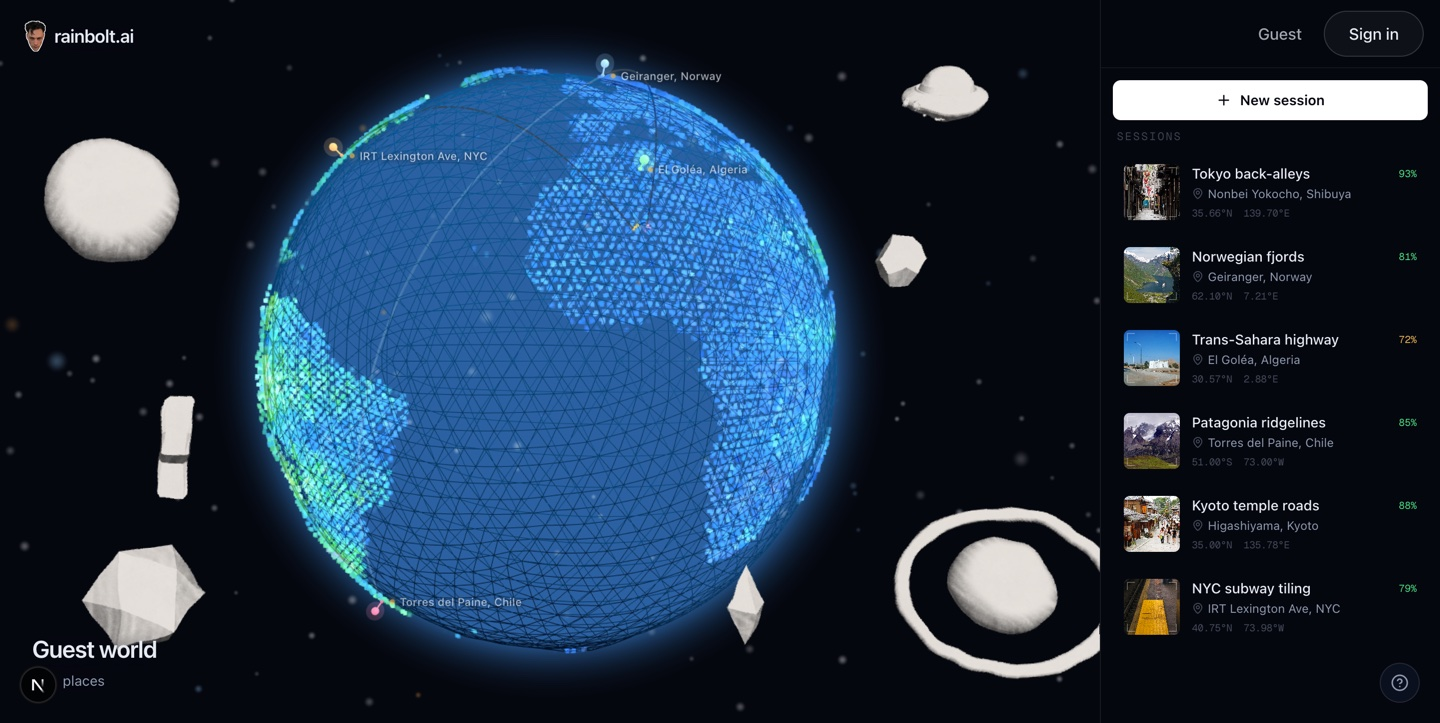
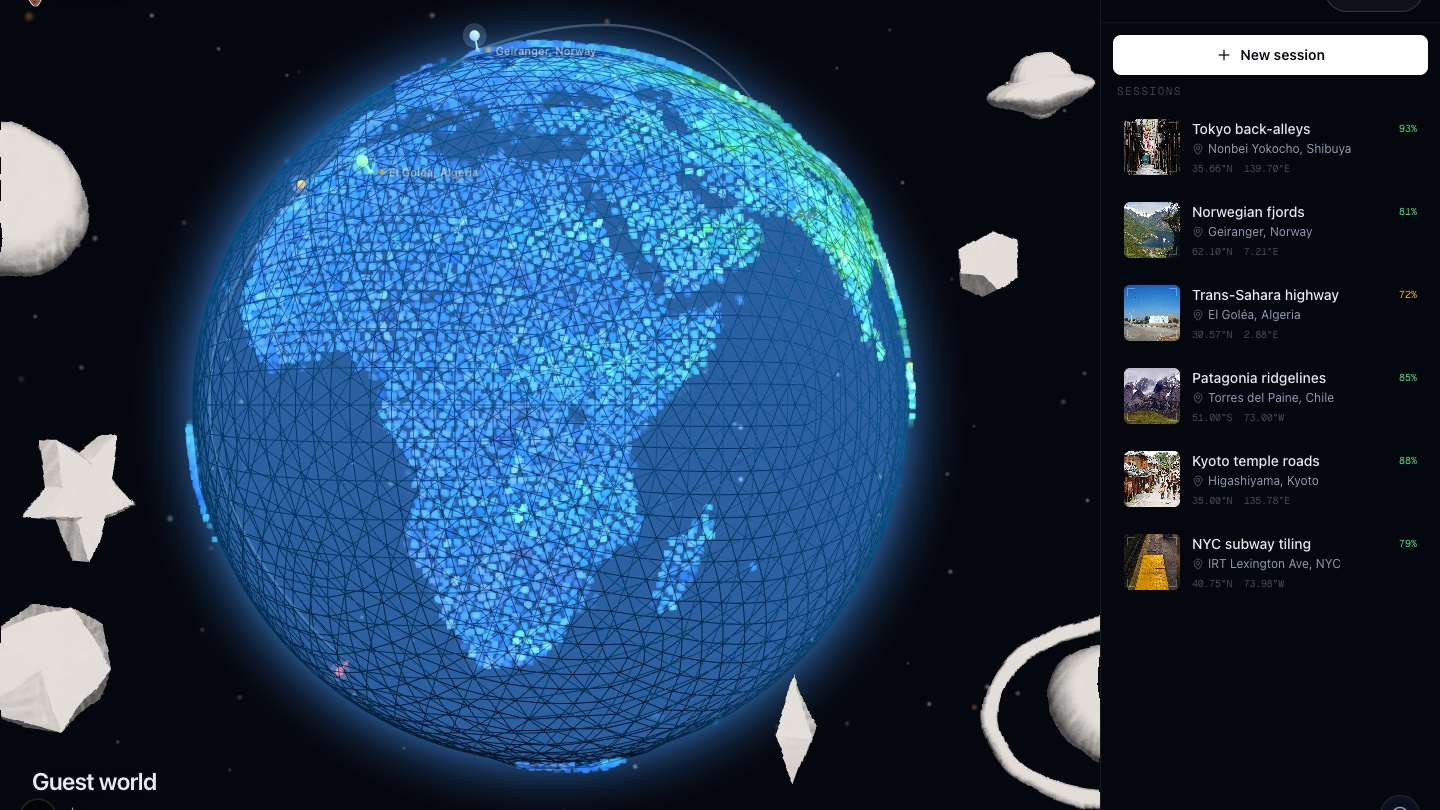
feat(tutorial): add a pin-the-evidence step and reshoot the slides

diff --git a/frontend/components/HowItWorks.tsx b/frontend/components/HowItWorks.tsx
@@ -20,6 +20,11 @@ const STEPS = [
     body: "Every photo lands as a pin on your globe. Open one to see ranked guesses, compare street-level matches, and ask follow-ups.",
     image: "/howto/map.jpg",
   },
+  {
+    title: "Pin the evidence",
+    body: "Flip a session to Photo view to see every clue pinned on your image. Drop your own pins and ask about them in the chat.",
+    image: "/howto/annotate.jpg",
+  },
 ];
 
 const EASE = [0.22, 1, 0.36, 1] as const;
